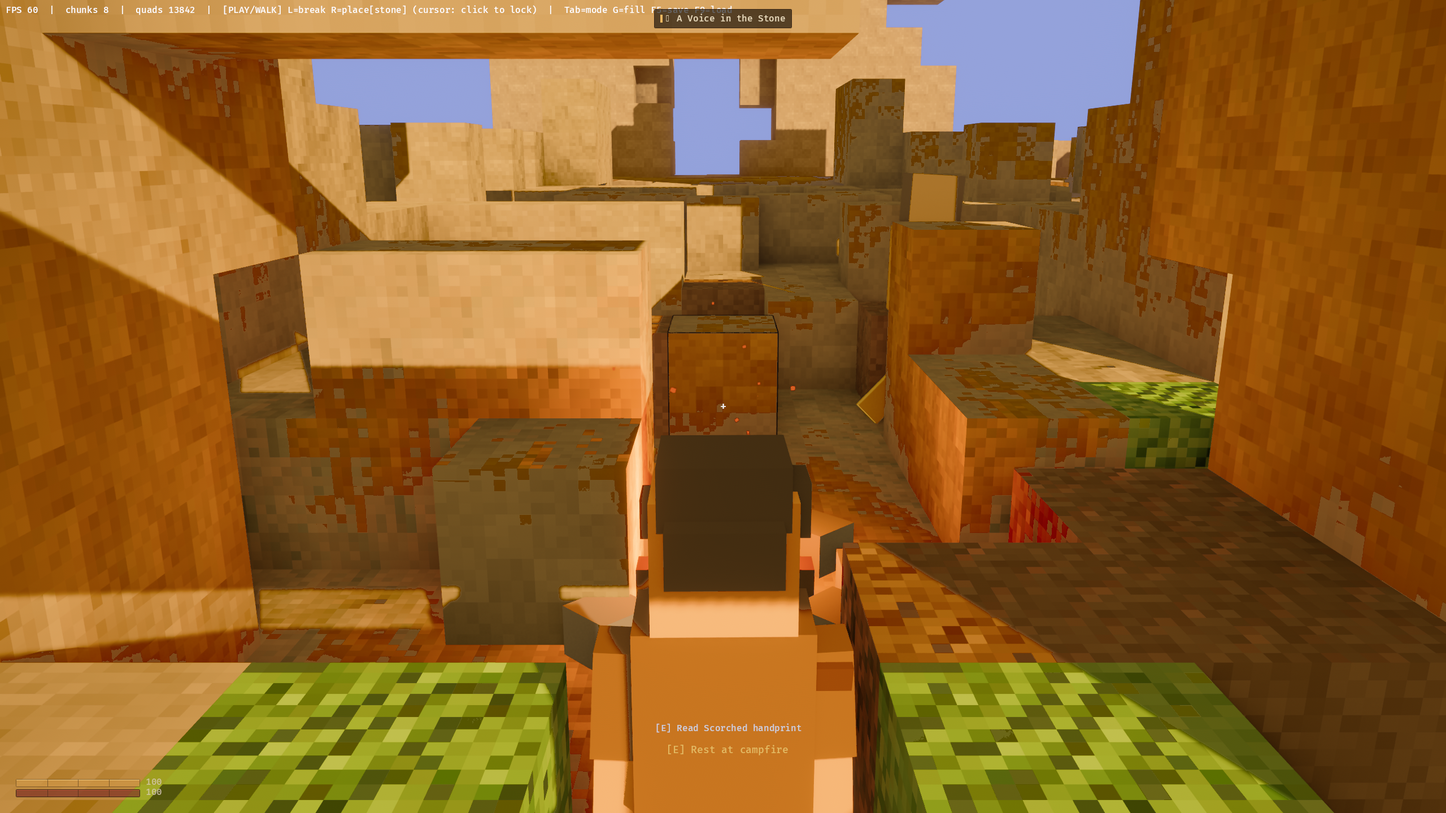
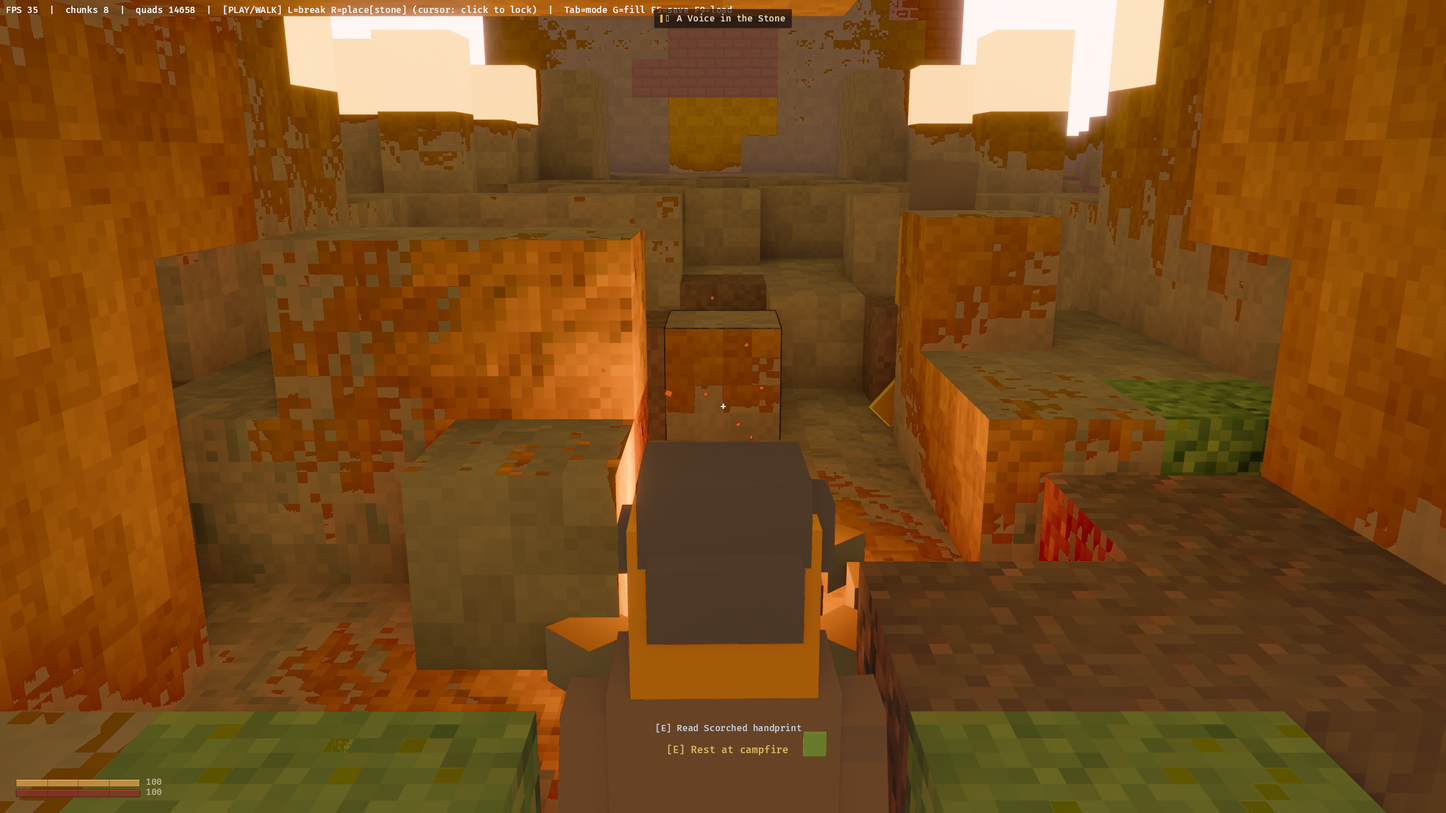
test(gate-probe): land 4-angle dome/probe captures + shino's walk audit
Adds the debug/probe/diagnostic PNGs the sky-probe dome-capture work
(39f1dd9, 39e00b0) produced but never staged (_dbg_dome*, _probe_*,
_diagn_sky_flat_vs_dome, shino's no-sky play capture), the resulting
sky-dome/domefog/flat recaptures, the two gate3-a6-teal JSON metric
additions, and Shino's independent walk-audit script.

diff --git a/scripts/_shino_independent_walk_audit.py b/scripts/_shino_independent_walk_audit.py
@@ -1,0 +1,146 @@
+"""Director's independent walkability audit for maps/edhari.json.
+
+Deliberately does NOT import or reuse verify_edhari_village.py — the point is a
+second implementation, derived straight from the engine's own rules in
+client/src/main.rs, so a bug shared between the generator and its sibling
+verifier cannot hide in both.
+
+Engine rules mirrored here:
+  * sim/src/block.rs  is_opaque()  -> every non-air block is solid
+  * main.rs solid_at()             -> y outside 0..32 is air
+  * PLAYER_HEIGHT 1.8              -> the body occupies feet cell + 1 above
+  * STEP_HEIGHT 1.0                -> auto-climb at most one block
+  * gravity                        -> falling any distance is free
+Movement is 4-neighbour only (a 0.6-wide body cutting a diagonal corner is not
+assumed) — conservative, so a PASS here is a real PASS.
+"""
+
+import json
+import sys
+from collections import deque
+
+CHUNK = 32
+MAP = "maps/edhari.json"
+SPAWN = (32, 32)
+
+solid = set()
+with open(MAP, encoding="utf-8") as f:
+    doc = json.load(f)
+for b in doc["blocks"]:
+    if b["block"] != "air":
+        solid.add((b["x"], b["y"], b["z"]))
+
+xs = [p[0] for p in solid]
+zs = [p[2] for p in solid]
+XMIN, XMAX = min(xs), max(xs)
+ZMIN, ZMAX = min(zs), max(zs)
+
+
+def is_solid(x, y, z):
+    if y < 0 or y >= CHUNK:
+        return False
+    return (x, y, z) in solid
+
+
+def standable(x, y, z):
+    """Feet at y: floor below is solid, feet cell and head cell are clear."""
+    return is_solid(x, y - 1, z) and not is_solid(x, y, z) and not is_solid(x, y + 1, z)
+
+
+def feet_levels(x, z):
+    return [y for y in range(0, CHUNK) if standable(x, y, z)]
+
+
+def landing(x, z, from_y):
+    """Where the player ends up walking into column (x,z) from feet level from_y.
+
+    Prefers the highest standable level reachable by a <=1 step up, otherwise the
+    highest one below (gravity does the rest). None = wall / no footing.
+    """
+    cands = feet_levels(x, z)
+    up = [y for y in cands if from_y < y <= from_y + 1]
+    if up:
+        return min(up)
+    down = [y for y in cands if y <= from_y]
+    if down:
+        return max(down)
+    return None
+
+
+def reachable_from(start_xz):
+    sx, sz = start_xz
+    starts = feet_levels(sx, sz)
+    if not starts:
+        print(f"  !! no standable footing at start {start_xz}")
+        return {}
+    sy = min(starts)
+    seen = {(sx, sz): sy}
+    q = deque([(sx, sy, sz)])
+    while q:
+        x, y, z = q.popleft()
+        for dx, dz in ((1, 0), (-1, 0), (0, 1), (0, -1)):
+            nx, nz = x + dx, z + dz
+            if not (XMIN <= nx <= XMAX and ZMIN <= nz <= ZMAX):
+                continue
+            ny = landing(nx, nz, y)
+            if ny is None:
+                continue
+            # head must clear while stepping across
+            if ny > y and is_solid(x, y + 2, z):
+                continue
+            prev = seen.get((nx, nz))
+            if prev is None or ny < prev:
+                seen[(nx, nz)] = ny
+                q.append((nx, ny, nz))
+    return seen
+
+
+print(f"map: {MAP}  blocks={len(doc['blocks'])}  x[{XMIN}..{XMAX}] z[{ZMIN}..{ZMAX}]")
+reach = reachable_from(SPAWN)
+print(f"reachable columns from spawn {SPAWN}: {len(reach)}")
+
+fails = 0
+
+
+def check(label, ok, detail=""):
+    global fails
+    print(("  PASS  " if ok else "  FAIL  ") + label + (f"   {detail}" if detail else ""))
+    if not ok:
+        fails += 1
+
+
+def walk_check(label, x, z):
+    y = reach.get((x, z))
+    check(label, y is not None, f"feet y={y}" if y is not None else "unreachable from spawn")
+
+
+def near_check(label, x, y, z):
+    """A prop cell itself is solid — assert the player can stand right beside it."""
+    has = is_solid(x, y, z)
+    adj = [
+        (x + dx, z + dz)
+        for dx, dz in ((1, 0), (-1, 0), (0, 1), (0, -1))
+        if (x + dx, z + dz) in reach
+    ]
+    check(label, has and bool(adj), f"block={has} standable-neighbours={len(adj)}")
+
+
+print("\n-- interiors, from the real spawn (not from a convenient nearby door) --")
+walk_check("west_house interior (16,24)", 16, 24)
+walk_check("east_house interior (47,24)", 47, 24)
+
+print("\n-- the doorways Shiba moved --")
+walk_check("west_house south door (15,19)", 15, 19)
+walk_check("east_house north door (49,19)", 49, 19)
+
+print("\n-- story props --")
+near_check("Toma's toy (15,1,24)", 15, 1, 24)
+near_check("child's drawing (16,1,24)", 16, 1, 24)
+near_check("Builder fresco (52,1,7)", 52, 1, 7)
+
+print("\n-- landmarks that must not have regressed --")
+walk_check("campfire (32,29)", 32, 29)
+walk_check("first husk (32,25)", 32, 25)
+
+print("\nRESULT:", "PASS (independent)" if fails == 0 else f"FAIL ({fails} check(s))")
+sys.exit(1 if fails else 0)
